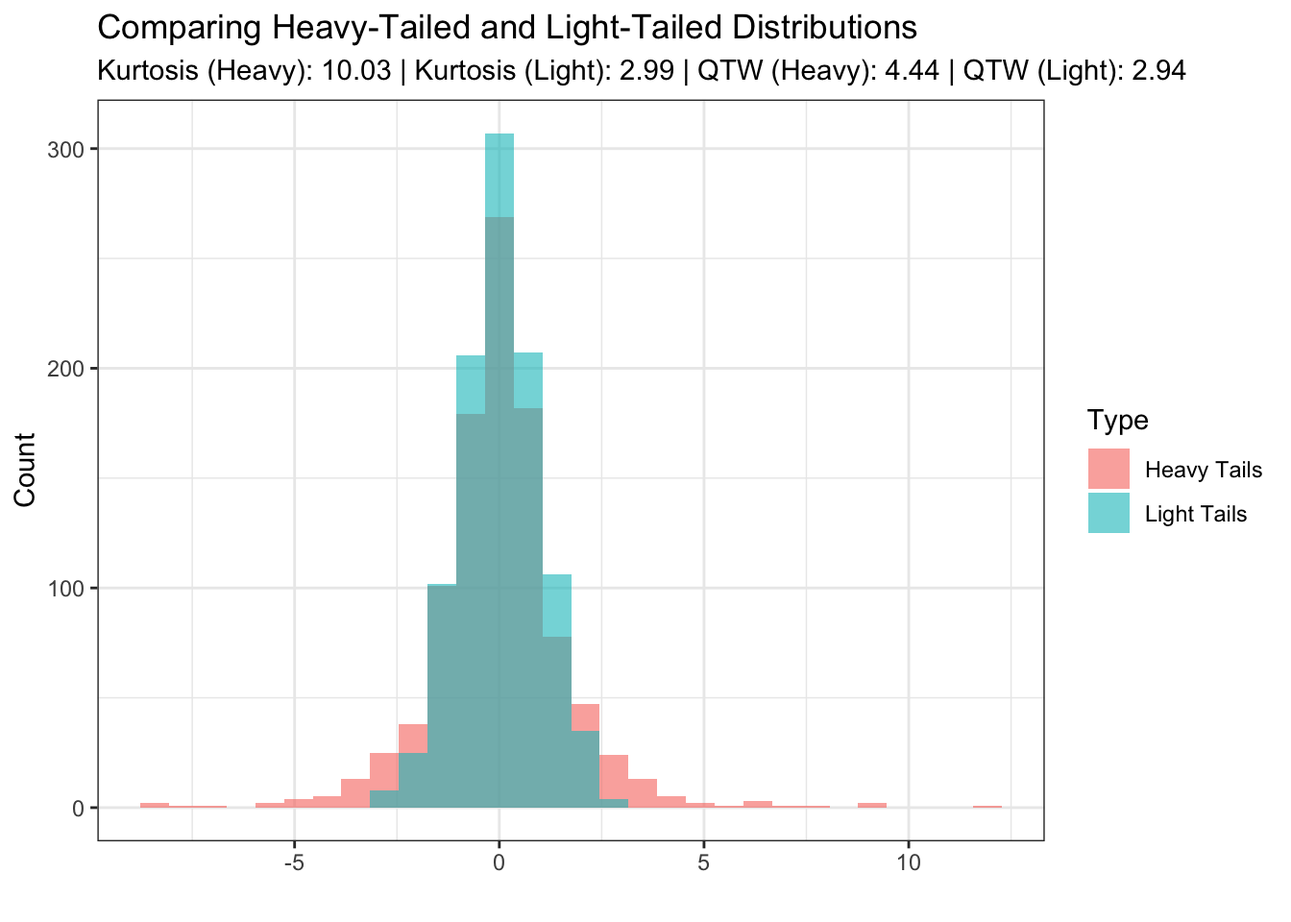
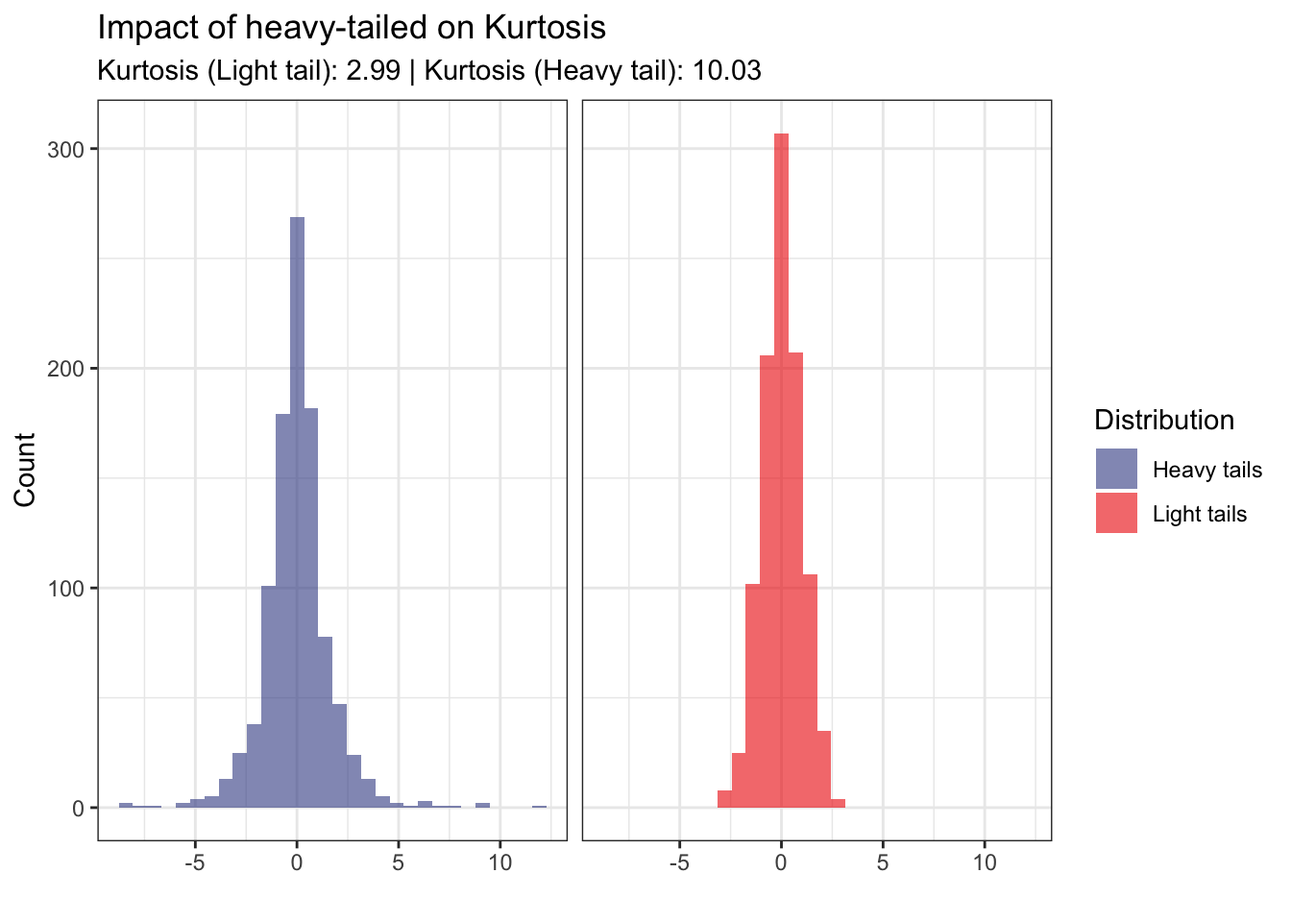
updates

diff --git a/docs/blog/posts/post8/index.html b/docs/blog/posts/post8/index.html
@@ -104,6 +104,35 @@ pre > code.sourceCode > span > a:first-child::before { text-decoration: underlin
   }
 }</script>
 
+  <script src="https://cdnjs.cloudflare.com/polyfill/v3/polyfill.min.js?features=es6"></script>
+  <script src="https://cdn.jsdelivr.net/npm/mathjax@3/es5/tex-chtml-full.js" type="text/javascript"></script>
+
+<script type="text/javascript">
+const typesetMath = (el) => {
+  if (window.MathJax) {
+    // MathJax Typeset
+    window.MathJax.typeset([el]);
+  } else if (window.katex) {
+    // KaTeX Render
+    var mathElements = el.getElementsByClassName("math");
+    var macros = [];
+    for (var i = 0; i < mathElements.length; i++) {
+      var texText = mathElements[i].firstChild;
+      if (mathElements[i].tagName == "SPAN") {
+        window.katex.render(texText.data, mathElements[i], {
+          displayMode: mathElements[i].classList.contains('display'),
+          throwOnError: false,
+          macros: macros,
+          fleqn: false
+        });
+      }
+    }
+  }
+}
+window.Quarto = {
+  typesetMath
+};
+</script>
 
 <link rel="stylesheet" href="../../../styles.scss">
 <meta property="og:title" content="Robust Measures of Tail Weight in Distributions – Christian L. Goueguel">
@@ -229,12 +258,11 @@ pre > code.sourceCode > span > a:first-child::before { text-decoration: underlin
 </figure>
 </div>
 <p>In the world of data analysis, understanding the tail behavior of a distribution is critical for identifying potential outliers. Traditional measures like kurtosis have long been used to capture the weight of the tails of a distribution. However, kurtosis comes with limitations, particularly its sensitivity to outliers and lack of robustness. In this blog post, we will explore two robust measures for tail weight:</p>
-<ol type="1">
+<ul>
 <li>Quantile tail weight measure</li>
 <li>Medcouple tail weight measure</li>
-</ol>
-<p>Both measures were proposed in the work of Brys, Hubert, and Struyf (2006), who introduced these methods to provide a more stable and reliable way of analyzing tail weight.</p>
-<p>Let’s begin with why tail weight matters and examine the limitations of traditional kurtosis. Light-tailed distributions (e.g., Normal distribution) have very few extreme values, whereas heavy-tailed distributions (e.g., Cauchy, Student’s t-distribution) contain more extreme values, and outliers occur more frequently. If a measure of tail weight is unreliable or sensitive to extreme observations, the analysis can be skewed, leading to poor decisions.</p>
+</ul>
+<p>Let’s begin with why tail weight matters and examine the limitations of traditional kurtosis. Light-tailed distributions (e.g., normal distribution) have very few extreme values, whereas heavy-tailed distributions (e.g., Cauchy, Student’s t-distribution) contain more extreme values, and outliers occur more frequently. If a measure of tail weight is unreliable or sensitive to extreme observations, the analysis of the underlying data distribution would be inacurrate.</p>
 <section id="kurtosis-measure" class="level2">
 <h2 class="anchored" data-anchor-id="kurtosis-measure"><strong>Kurtosis measure</strong></h2>
 <p>Kurtosis measures the degree of peakedness and tail heaviness relative to a normal distribution. For a normal distribution, kurtosis = 3. Excess kurtosis (kurtosis - 3) is often used to center the normal reference value at 0. However, kurtosis has a significant weakness: it is highly sensitive to outliers. Even a single extreme observation can disproportionately inflate kurtosis, leading to misleading conclusions.</p>
@@ -247,22 +275,26 @@ pre > code.sourceCode > span > a:first-child::before { text-decoration: underlin
 <span id="cb1-4"><a href="#cb1-4" aria-hidden="true" tabindex="-1"></a>kurtosis_normal <span class="ot">&lt;-</span> <span class="fu">kurtosis</span>(normal_data)</span>
 <span id="cb1-5"><a href="#cb1-5" aria-hidden="true" tabindex="-1"></a>kurtosis_outlier <span class="ot">&lt;-</span> <span class="fu">kurtosis</span>(outlier_data)</span>
 <span id="cb1-6"><a href="#cb1-6" aria-hidden="true" tabindex="-1"></a></span>
-<span id="cb1-7"><a href="#cb1-7" aria-hidden="true" tabindex="-1"></a><span class="fu">data_frame</span>(</span>
-<span id="cb1-8"><a href="#cb1-8" aria-hidden="true" tabindex="-1"></a>  <span class="at">Value =</span> <span class="fu">c</span>(normal_data, outlier_data),</span>
-<span id="cb1-9"><a href="#cb1-9" aria-hidden="true" tabindex="-1"></a>  <span class="at">Type =</span> <span class="fu">rep</span>(<span class="fu">c</span>(<span class="st">"Normal Data"</span>, <span class="st">"With Outliers"</span>), <span class="fu">c</span>(<span class="dv">1000</span>, <span class="dv">1005</span>))</span>
+<span id="cb1-7"><a href="#cb1-7" aria-hidden="true" tabindex="-1"></a><span class="fu">tibble</span>(</span>
+<span id="cb1-8"><a href="#cb1-8" aria-hidden="true" tabindex="-1"></a>  <span class="at">value =</span> <span class="fu">c</span>(normal_data, outlier_data),</span>
+<span id="cb1-9"><a href="#cb1-9" aria-hidden="true" tabindex="-1"></a>  <span class="at">type =</span> <span class="fu">rep</span>(<span class="fu">c</span>(<span class="st">"normal"</span>, <span class="st">"with outliers"</span>), <span class="fu">c</span>(<span class="dv">1000</span>, <span class="dv">1005</span>))</span>
 <span id="cb1-10"><a href="#cb1-10" aria-hidden="true" tabindex="-1"></a>  ) <span class="sc">%&gt;%</span></span>
-<span id="cb1-11"><a href="#cb1-11" aria-hidden="true" tabindex="-1"></a>  <span class="fu">ggplot</span>(<span class="fu">aes</span>(<span class="at">x =</span> Value, <span class="at">fill =</span> Type)) <span class="sc">+</span></span>
+<span id="cb1-11"><a href="#cb1-11" aria-hidden="true" tabindex="-1"></a>  <span class="fu">ggplot</span>(<span class="fu">aes</span>(<span class="at">x =</span> value, <span class="at">fill =</span> type)) <span class="sc">+</span></span>
 <span id="cb1-12"><a href="#cb1-12" aria-hidden="true" tabindex="-1"></a>  <span class="fu">geom_histogram</span>(<span class="at">bins =</span> <span class="dv">30</span>, <span class="at">alpha =</span> <span class="fl">0.6</span>, <span class="at">position =</span> <span class="st">"identity"</span>) <span class="sc">+</span></span>
-<span id="cb1-13"><a href="#cb1-13" aria-hidden="true" tabindex="-1"></a>  <span class="fu">theme_bw</span>() <span class="sc">+</span></span>
-<span id="cb1-14"><a href="#cb1-14" aria-hidden="true" tabindex="-1"></a>  <span class="fu">labs</span>(</span>
-<span id="cb1-15"><a href="#cb1-15" aria-hidden="true" tabindex="-1"></a>    <span class="at">title =</span> <span class="st">"Impact of Outliers on Kurtosis"</span>,</span>
-<span id="cb1-16"><a href="#cb1-16" aria-hidden="true" tabindex="-1"></a>    <span class="at">subtitle =</span> <span class="fu">paste</span>(</span>
-<span id="cb1-17"><a href="#cb1-17" aria-hidden="true" tabindex="-1"></a>      <span class="st">"Kurtosis (Normal):"</span>, <span class="fu">round</span>(kurtosis_normal, <span class="dv">2</span>), </span>
-<span id="cb1-18"><a href="#cb1-18" aria-hidden="true" tabindex="-1"></a>      <span class="st">"| Kurtosis (Outliers):"</span>, <span class="fu">round</span>(kurtosis_outlier, <span class="dv">2</span>)</span>
-<span id="cb1-19"><a href="#cb1-19" aria-hidden="true" tabindex="-1"></a>      ), </span>
-<span id="cb1-20"><a href="#cb1-20" aria-hidden="true" tabindex="-1"></a>    <span class="at">x =</span> <span class="st">""</span>, </span>
-<span id="cb1-21"><a href="#cb1-21" aria-hidden="true" tabindex="-1"></a>    <span class="at">y =</span> <span class="st">"Count"</span></span>
-<span id="cb1-22"><a href="#cb1-22" aria-hidden="true" tabindex="-1"></a>    )</span></code><button title="Copy to Clipboard" class="code-copy-button"><i class="bi"></i></button></pre></div>
+<span id="cb1-13"><a href="#cb1-13" aria-hidden="true" tabindex="-1"></a>  <span class="fu">facet_wrap</span>(<span class="fu">vars</span>(type)) <span class="sc">+</span></span>
+<span id="cb1-14"><a href="#cb1-14" aria-hidden="true" tabindex="-1"></a>  ggsci<span class="sc">::</span><span class="fu">scale_fill_jco</span>() <span class="sc">+</span></span>
+<span id="cb1-15"><a href="#cb1-15" aria-hidden="true" tabindex="-1"></a>  <span class="fu">theme_bw</span>() <span class="sc">+</span></span>
+<span id="cb1-16"><a href="#cb1-16" aria-hidden="true" tabindex="-1"></a>  <span class="fu">labs</span>(</span>
+<span id="cb1-17"><a href="#cb1-17" aria-hidden="true" tabindex="-1"></a>    <span class="at">title =</span> <span class="st">"Impact of Outliers on Kurtosis"</span>,</span>
+<span id="cb1-18"><a href="#cb1-18" aria-hidden="true" tabindex="-1"></a>    <span class="at">subtitle =</span> <span class="fu">paste</span>(<span class="st">"Kurtosis (Normal):"</span>, <span class="fu">round</span>(kurtosis_normal, <span class="dv">2</span>), <span class="st">"| Kurtosis (Outliers):"</span>, <span class="fu">round</span>(kurtosis_outlier, <span class="dv">2</span>)), </span>
+<span id="cb1-19"><a href="#cb1-19" aria-hidden="true" tabindex="-1"></a>    <span class="at">x =</span> <span class="st">""</span>, </span>
+<span id="cb1-20"><a href="#cb1-20" aria-hidden="true" tabindex="-1"></a>    <span class="at">y =</span> <span class="st">"Count"</span>,</span>
+<span id="cb1-21"><a href="#cb1-21" aria-hidden="true" tabindex="-1"></a>    <span class="at">fill =</span> <span class="st">"Distribution"</span>,</span>
+<span id="cb1-22"><a href="#cb1-22" aria-hidden="true" tabindex="-1"></a>    ) <span class="sc">+</span></span>
+<span id="cb1-23"><a href="#cb1-23" aria-hidden="true" tabindex="-1"></a>  <span class="fu">theme</span>(</span>
+<span id="cb1-24"><a href="#cb1-24" aria-hidden="true" tabindex="-1"></a>    <span class="at">strip.background =</span> <span class="fu">element_blank</span>(),</span>
+<span id="cb1-25"><a href="#cb1-25" aria-hidden="true" tabindex="-1"></a>    <span class="at">strip.text.x =</span> <span class="fu">element_blank</span>()</span>
+<span id="cb1-26"><a href="#cb1-26" aria-hidden="true" tabindex="-1"></a>  )</span></code><button title="Copy to Clipboard" class="code-copy-button"><i class="bi"></i></button></pre></div>
 </details>
 <div class="cell-output-display">
 <div class="quarto-figure quarto-figure-center">
@@ -272,26 +304,25 @@ pre > code.sourceCode > span > a:first-child::before { text-decoration: underlin
 </div>
 </div>
 </div>
-<p>Notice how adding a few extreme outliers significantly increases the kurtosis value. This demonstrates the lack of robustness of kurtosis. To overcome the sensitivity of kurtosis, Brys et al.&nbsp;(2006) introduced two robust measures: quantile weight (QW) and medcouple weight (MW). Both rely on robust statistical properties and are less affected by outliers.</p>
+<p>Notice how adding a few extreme outliers significantly increases the kurtosis value. This demonstrates the lack of robustness of kurtosis. To overcome the sensitivity of kurtosis, Brys <em>et al.</em> (2006) introduced two robust measures: quantile weight (QW) and medcouple weight (MW). Both rely on robust statistical properties and are less affected by outliers.</p>
 <section id="quantile-tail-weight-measure" class="level3">
 <h3 class="anchored" data-anchor-id="quantile-tail-weight-measure"><strong>Quantile tail weight measure</strong></h3>
-<p>The QW measure evaluates the weight of the tails using quantiles. It is based on the interquartile range (IQR) and extreme quantiles. The numerator focuses on extreme quantiles (tail behavior). The denominator normalizes using the IQR, making the measure robust to outliers. The quantile weights, comprising the left quantile weight (LQW) and the right quantile weight (RQW). They have a breakdown value of 0.125, meaning that they are resistant to the influence of up to 12.5% of outliers or contaminated data.</p>
-<p>The concept of quantile weights is derived from quartile skewness, introduced by D.V. Hinkley in 1975. Quartile skewness measures the skewness or asymmetry of a distribution by comparing the differences between the quartiles, which are robust measures of location and scale. Specifically, the quantile weights are calculated when applying quartile skewness to either the left half or the right half of the probability mass, divided at the median of the univariate distribution. The left quantile weight (LQW) is the proportion of the data below the median, divided by the expected proportion (0.5) if the data were normally distributed. The right quantile weight (RQW) is the proportion of the data above the median, divided by 0.5.</p>
-<ul>
-<li>Values closer to 0 indicate lighter tails compared to the normal distribution.</li>
-<li>Values closer to 1 signify heavier tails compared to the normal distribution.</li>
-<li>Values significantly greater than 1 suggest the presence of outliers or extreme values in the respective tail.</li>
-</ul>
+<p>The QW measure evaluates the weight of the tails using quantiles. It is based on the interquartile range (IQR) and extreme quantiles. The numerator focuses on extreme quantiles (tail behavior). The denominator normalizes using the IQR, making the measure robust to outliers. The quantile weights, comprising the left quantile weight (LQW) and the right quantile weight (RQW), and are given by:</p>
+<p><span class="math display">\[
+LQW(p) = -\frac{Q_{\frac{1-p}{2}} + Q_{\frac{p}{2}} - 2Q_{0.25}}{Q_{\frac{1-p}{2}} - Q_{\frac{p}{2}}}, \quad
+RQW(q) = -\frac{Q_{\frac{1+q}{2}} + Q_{1-\frac{q}{2}} - 2Q_{0.75}}{Q_{\frac{1+q}{2}} - Q_{1-\frac{q}{2}}}
+\]</span></p>
+<p>with <span class="math inline">\(0&lt;p&lt;\frac{1}{2}\)</span> and <span class="math inline">\(\frac{1}{2}&lt;q&lt;1\)</span>, which define the degree of robustness one is willing to attain.</p>
+<p>They have a breakdown value of 0.125, meaning that they are resistant to the influence of up to 12.5% of outliers or contaminated data. The concept of quantile weights is derived from quartile skewness, introduced by D.V. Hinkley in 1975. Quartile skewness measures the skewness or asymmetry of a distribution by comparing the differences between the quartiles, which are robust measures of location and scale. Specifically, the quantile weights are calculated when applying quartile skewness to either the left half or the right half of the probability mass, divided at the median of the univariate distribution. The left quantile weight (LQW) is the proportion of the data below the median, divided by the expected proportion (0.5) if the data were normally distributed. The right quantile weight (RQW) is the proportion of the data above the median, divided by 0.5. Values closer to 0 indicate lighter tails compared to the normal distribution, values closer to 1 signify heavier tails compared to the normal distribution, whereas values significantly greater than 1 suggest the presence of outliers or extreme values in the respective tail.</p>
 </section>
 <section id="medcouple-tail-weight-measure" class="level3">
 <h3 class="anchored" data-anchor-id="medcouple-tail-weight-measure"><strong>Medcouple tail weight measure</strong></h3>
 <p>The MW measure uses the medcouple statistic, which is a robust measure of skewness. It focuses on tail asymmetry and provides information about the heaviness of each tail. The medcouple is defined as a scaled median of all pairwise slopes between data points. It is robust to extreme observations and does not require a predefined model. The resulting MW measure evaluates the extent of tail heaviness in a distribution, particularly useful when the data is skewed.</p>
-<p>The left and right medcouples are a robust measure of tail weight based on the median and the medcouple (Brys <em>et al.</em> 2004), which is a kernel estimator of the cumulative distribution function (CDF). The left and right medcouples are robust to outliers and have a breakdown value of 25%. Specifically, the left medcouple (LMC) measures the skewness in the lower tail of the distribution, while the right medcouple (RMC) measures the skewness in the upper tail.</p>
-<ol type="1">
-<li>Values close to 0 indicate a symmetric distribution or light tails.</li>
-<li>Positive values indicate right-skewness or a heavier right tail.</li>
-<li>Negative values indicate left-skewness or a heavier left tail.</li>
-</ol>
+<p>The left and right medcouples are a robust measure of tail weight based on the median and the medcouple (Brys <em>et al.</em> 2004), which is a kernel estimator of the cumulative distribution function (CDF). The left and right medcouples are robust to outliers and have a breakdown value of 25%. Specifically, the left medcouple (LMC) measures the skewness in the lower tail of the distribution, while the right medcouple (RMC) measures the skewness in the upper tail. LMC and RMC, are defined as:</p>
+<p><span class="math display">\[
+LMC = -MC(x &lt; m), \quad RMC = MC(x &gt; m)
+\]</span></p>
+<p>with <span class="math inline">\(m\)</span> the median value. LMC and MC close to 0 indicate a symmetric distribution or light tails. Positive values indicate right-skewness or a heavier right tail, whereas negative values indicate left-skewness or a heavier left tail.</p>
 <div class="cell" data-layout-align="center">
 <details class="code-fold">
 <summary>Show the code</summary>
@@ -301,29 +332,30 @@ pre > code.sourceCode > span > a:first-child::before { text-decoration: underlin
 <span id="cb2-4"><a href="#cb2-4" aria-hidden="true" tabindex="-1"></a>kurt_heavy <span class="ot">&lt;-</span> <span class="fu">kurtosis</span>(heavy_tail_data)</span>
 <span id="cb2-5"><a href="#cb2-5" aria-hidden="true" tabindex="-1"></a>kurt_light <span class="ot">&lt;-</span> <span class="fu">kurtosis</span>(light_tail_data)</span>
 <span id="cb2-6"><a href="#cb2-6" aria-hidden="true" tabindex="-1"></a></span>
-<span id="cb2-7"><a href="#cb2-7" aria-hidden="true" tabindex="-1"></a>qtw <span class="ot">&lt;-</span> <span class="cf">function</span>(x) {</span>
-<span id="cb2-8"><a href="#cb2-8" aria-hidden="true" tabindex="-1"></a>  (<span class="fu">quantile</span>(x, <span class="fl">0.975</span>) <span class="sc">-</span> <span class="fu">quantile</span>(x, <span class="fl">0.025</span>)) <span class="sc">/</span> (<span class="fu">quantile</span>(x, <span class="fl">0.75</span>) <span class="sc">-</span> <span class="fu">quantile</span>(x, <span class="fl">0.25</span>))</span>
-<span id="cb2-9"><a href="#cb2-9" aria-hidden="true" tabindex="-1"></a>}</span>
-<span id="cb2-10"><a href="#cb2-10" aria-hidden="true" tabindex="-1"></a>qtw_heavy <span class="ot">&lt;-</span> <span class="fu">qtw</span>(heavy_tail_data)</span>
-<span id="cb2-11"><a href="#cb2-11" aria-hidden="true" tabindex="-1"></a>qtw_light <span class="ot">&lt;-</span> <span class="fu">qtw</span>(light_tail_data)</span>
+<span id="cb2-7"><a href="#cb2-7" aria-hidden="true" tabindex="-1"></a>qtw_heavy <span class="ot">&lt;-</span> specProc<span class="sc">::</span><span class="fu">quantile_weight</span>(heavy_tail_data)</span>
+<span id="cb2-8"><a href="#cb2-8" aria-hidden="true" tabindex="-1"></a>qtw_light <span class="ot">&lt;-</span> specProc<span class="sc">::</span><span class="fu">quantile_weight</span>(light_tail_data)</span>
+<span id="cb2-9"><a href="#cb2-9" aria-hidden="true" tabindex="-1"></a></span>
+<span id="cb2-10"><a href="#cb2-10" aria-hidden="true" tabindex="-1"></a>mtw_heavy <span class="ot">&lt;-</span> specProc<span class="sc">::</span><span class="fu">medcouple_weight</span>(heavy_tail_data)</span>
+<span id="cb2-11"><a href="#cb2-11" aria-hidden="true" tabindex="-1"></a>mtw_light <span class="ot">&lt;-</span> specProc<span class="sc">::</span><span class="fu">medcouple_weight</span>(light_tail_data)</span>
 <span id="cb2-12"><a href="#cb2-12" aria-hidden="true" tabindex="-1"></a></span>
 <span id="cb2-13"><a href="#cb2-13" aria-hidden="true" tabindex="-1"></a><span class="fu">data_frame</span>(</span>
-<span id="cb2-14"><a href="#cb2-14" aria-hidden="true" tabindex="-1"></a>  <span class="at">Value =</span> <span class="fu">c</span>(heavy_tail_data, light_tail_data),</span>
-<span id="cb2-15"><a href="#cb2-15" aria-hidden="true" tabindex="-1"></a>  <span class="at">Type =</span> <span class="fu">rep</span>(<span class="fu">c</span>(<span class="st">"Heavy Tails"</span>, <span class="st">"Light Tails"</span>), <span class="at">each =</span> <span class="dv">1000</span>)</span>
+<span id="cb2-14"><a href="#cb2-14" aria-hidden="true" tabindex="-1"></a>  <span class="at">value =</span> <span class="fu">c</span>(heavy_tail_data, light_tail_data),</span>
+<span id="cb2-15"><a href="#cb2-15" aria-hidden="true" tabindex="-1"></a>  <span class="at">type =</span> <span class="fu">rep</span>(<span class="fu">c</span>(<span class="st">"Heavy tails"</span>, <span class="st">"Light tails"</span>), <span class="at">each =</span> <span class="dv">1000</span>)</span>
 <span id="cb2-16"><a href="#cb2-16" aria-hidden="true" tabindex="-1"></a>  ) <span class="sc">%&gt;%</span></span>
-<span id="cb2-17"><a href="#cb2-17" aria-hidden="true" tabindex="-1"></a>  <span class="fu">ggplot</span>(<span class="fu">aes</span>(<span class="at">x =</span> Value, <span class="at">fill =</span> Type)) <span class="sc">+</span></span>
+<span id="cb2-17"><a href="#cb2-17" aria-hidden="true" tabindex="-1"></a>  <span class="fu">ggplot</span>(<span class="fu">aes</span>(<span class="at">x =</span> value, <span class="at">fill =</span> type)) <span class="sc">+</span></span>
 <span id="cb2-18"><a href="#cb2-18" aria-hidden="true" tabindex="-1"></a>  <span class="fu">geom_histogram</span>(<span class="at">bins =</span> <span class="dv">30</span>, <span class="at">alpha =</span> <span class="fl">0.6</span>, <span class="at">position =</span> <span class="st">"identity"</span>) <span class="sc">+</span></span>
-<span id="cb2-19"><a href="#cb2-19" aria-hidden="true" tabindex="-1"></a>  <span class="fu">theme_bw</span>() <span class="sc">+</span></span>
-<span id="cb2-20"><a href="#cb2-20" aria-hidden="true" tabindex="-1"></a>  <span class="fu">labs</span>(</span>
-<span id="cb2-21"><a href="#cb2-21" aria-hidden="true" tabindex="-1"></a>    <span class="at">title =</span> <span class="st">"Comparing Heavy-Tailed and Light-Tailed Distributions"</span>,</span>
-<span id="cb2-22"><a href="#cb2-22" aria-hidden="true" tabindex="-1"></a>    <span class="at">subtitle =</span> <span class="fu">paste</span>(</span>
-<span id="cb2-23"><a href="#cb2-23" aria-hidden="true" tabindex="-1"></a>      <span class="st">"Kurtosis (Heavy):"</span>, <span class="fu">round</span>(kurt_heavy, <span class="dv">2</span>),</span>
-<span id="cb2-24"><a href="#cb2-24" aria-hidden="true" tabindex="-1"></a>      <span class="st">"| Kurtosis (Light):"</span>, <span class="fu">round</span>(kurt_light, <span class="dv">2</span>),</span>
-<span id="cb2-25"><a href="#cb2-25" aria-hidden="true" tabindex="-1"></a>      <span class="st">"| QTW (Heavy):"</span>, <span class="fu">round</span>(qtw_heavy, <span class="dv">2</span>),</span>
-<span id="cb2-26"><a href="#cb2-26" aria-hidden="true" tabindex="-1"></a>      <span class="st">"| QTW (Light):"</span>, <span class="fu">round</span>(qtw_light, <span class="dv">2</span>)),</span>
-<span id="cb2-27"><a href="#cb2-27" aria-hidden="true" tabindex="-1"></a>    <span class="at">x =</span> <span class="st">""</span>, </span>
-<span id="cb2-28"><a href="#cb2-28" aria-hidden="true" tabindex="-1"></a>    <span class="at">y =</span> <span class="st">"Count"</span></span>
-<span id="cb2-29"><a href="#cb2-29" aria-hidden="true" tabindex="-1"></a>    )</span></code><button title="Copy to Clipboard" class="code-copy-button"><i class="bi"></i></button></pre></div>
+<span id="cb2-19"><a href="#cb2-19" aria-hidden="true" tabindex="-1"></a>  <span class="fu">facet_wrap</span>(<span class="fu">vars</span>(type)) <span class="sc">+</span></span>
+<span id="cb2-20"><a href="#cb2-20" aria-hidden="true" tabindex="-1"></a>  ggsci<span class="sc">::</span><span class="fu">scale_fill_aaas</span>() <span class="sc">+</span></span>
+<span id="cb2-21"><a href="#cb2-21" aria-hidden="true" tabindex="-1"></a>  <span class="fu">theme_bw</span>() <span class="sc">+</span></span>
+<span id="cb2-22"><a href="#cb2-22" aria-hidden="true" tabindex="-1"></a>  <span class="fu">labs</span>(</span>
+<span id="cb2-23"><a href="#cb2-23" aria-hidden="true" tabindex="-1"></a>    <span class="at">title =</span> <span class="st">"Impact of heavy-tailed on Kurtosis"</span>,</span>
+<span id="cb2-24"><a href="#cb2-24" aria-hidden="true" tabindex="-1"></a>    <span class="at">subtitle =</span> <span class="fu">paste</span>(<span class="st">"Kurtosis (Light tail):"</span>, <span class="fu">round</span>(kurt_light, <span class="dv">2</span>), <span class="st">"| Kurtosis (Heavy tail):"</span>, <span class="fu">round</span>(kurt_heavy, <span class="dv">2</span>)),</span>
+<span id="cb2-25"><a href="#cb2-25" aria-hidden="true" tabindex="-1"></a>    <span class="at">x =</span> <span class="st">""</span>, <span class="at">y =</span> <span class="st">"Count"</span>, <span class="at">fill =</span> <span class="st">"Distribution"</span></span>
+<span id="cb2-26"><a href="#cb2-26" aria-hidden="true" tabindex="-1"></a>    ) <span class="sc">+</span></span>
+<span id="cb2-27"><a href="#cb2-27" aria-hidden="true" tabindex="-1"></a>  <span class="fu">theme</span>(</span>
+<span id="cb2-28"><a href="#cb2-28" aria-hidden="true" tabindex="-1"></a>    <span class="at">strip.background =</span> <span class="fu">element_blank</span>(),</span>
+<span id="cb2-29"><a href="#cb2-29" aria-hidden="true" tabindex="-1"></a>    <span class="at">strip.text.x =</span> <span class="fu">element_blank</span>()</span>
+<span id="cb2-30"><a href="#cb2-30" aria-hidden="true" tabindex="-1"></a>  )</span></code><button title="Copy to Clipboard" class="code-copy-button"><i class="bi"></i></button></pre></div>
 </details>
 <div class="cell-output-display">
 <div class="quarto-figure quarto-figure-center">
@@ -333,11 +365,38 @@ pre > code.sourceCode > span > a:first-child::before { text-decoration: underlin
 </div>
 </div>
 </div>
+<p>From the above plot, we obtain the following results:</p>
+<table class="caption-top table">
+<thead>
+<tr class="header">
+<th>Methods</th>
+<th>Light tails</th>
+<th>Heavy tails</th>
+</tr>
+</thead>
+<tbody>
+<tr class="odd">
+<td>Kurtosis</td>
+<td>2.99</td>
+<td>10.03</td>
+</tr>
+<tr class="even">
+<td>Quantile weight</td>
+<td>[0.10; 0.21]</td>
+<td>[0.34; 0.17]</td>
+</tr>
+<tr class="odd">
+<td>Medcouple weight</td>
+<td>[0.22; 0.22]</td>
+<td>[0.30; 0.34]</td>
+</tr>
+</tbody>
+</table>
 </section>
 </section>
 <section id="conclusion" class="level2">
 <h2 class="anchored" data-anchor-id="conclusion"><strong>Conclusion</strong></h2>
-<p>Kurtosis, while popular, is not always the best measure of tail weight due to its sensitivity to outliers. Robust alternatives like the Quantile Tail Weight and Medcouple Tail Weight measures provide more reliable insights, particularly in the presence of heavy-tailed or skewed data.</p>
+<p>Kurtosis, while popular, is not always the best measure of tail weight due to its sensitivity to outliers. Robust alternatives like the quantile tail weight and medcouple tail weight measures provide more reliable insights, particularly in the presence of heavy-tailed or skewed data. Moreover, the LMC and RMC measure do not require the choice of any additional parameter, whereas for the LQW and RQW measures required tuning <span class="math inline">\(p\)</span> and <span class="math inline">\(q\)</span> parameters.</p>
 </section>
 <section id="reference" class="level2">
 <h2 class="anchored" data-anchor-id="reference">Reference</h2>

diff --git a/docs/blog/index.html b/docs/blog/index.html
@@ -7,7 +7,7 @@
 <meta name="viewport" content="width=device-width, initial-scale=1.0, user-scalable=yes">
 
 
-<title>blog – Christian L. Goueguel</title>
+<title>index – Christian L. Goueguel</title>
 <style>
 code{white-space: pre-wrap;}
 span.smallcaps{font-variant: small-caps;}
@@ -263,7 +263,7 @@ Christian L. Goueguel
 </a>
 </div>
 </div>
[2 lines of base64/hex data omitted]
 <div class="thumbnail">
 <p><a href="../blog/posts/post8/index.html" class="no-external"></a></p><a href="../blog/posts/post8/index.html" class="no-external">
 <p><img loading="lazy" src="../blog/posts/post8/cover.png" class="thumbnail-image"></p>
@@ -289,7 +289,7 @@ Oct 20, 2023
 Christian L. Goueguel
 </div>
 <div class="listing-reading-time">
-6 min
+7 min
 </div>
 </a>
 </div>
